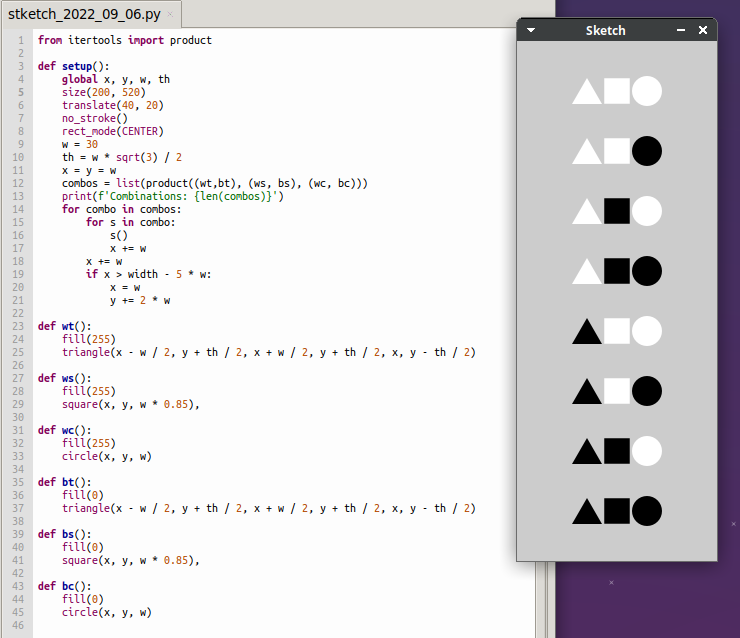
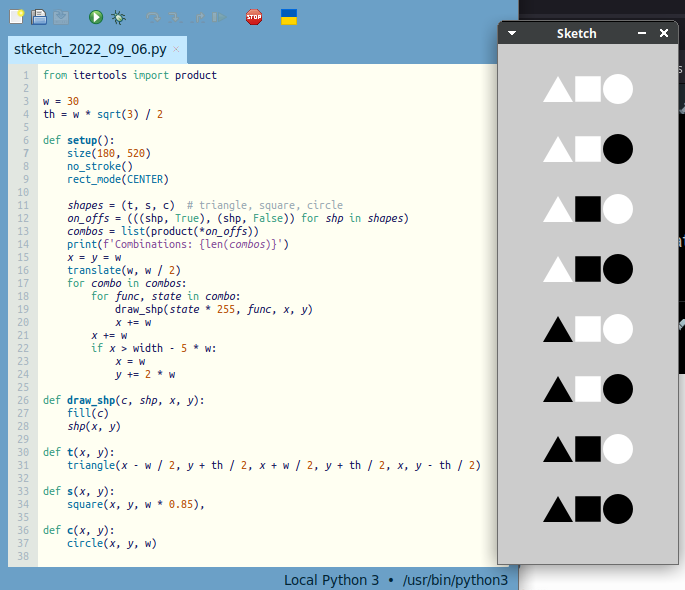
6 update & 7 new

diff --git a/2022/sketch_2022_09_06/stketch_2022_09_06.py b/2022/sketch_2022_09_06/stketch_2022_09_06.py
@@ -1,40 +1,37 @@
 from itertools import product
 
+w = 30
+th = w * sqrt(3) / 2    
+
 def setup():
-    global x, y, w, th
-    size(200, 520)
-    translate(40, 20)
+    size(180, 520)
     no_stroke()
     rect_mode(CENTER)
-    w = 30
-    th = w * sqrt(3) / 2    
-    x = y = w
-    
-    
-    combos = list(product(
-         ((t, True), (t, False)),
-         ((s, True), (s, False)),
-         ((c, True), (c, False))
-        ))
+
+    shapes = (t, s, c)  # triangle, square, circle
+    on_offs = (((shp, True), (shp, False)) for shp in shapes)
+    combos = list(product(*on_offs))
     print(f'Combinations: {len(combos)}')
-    
+    x = y = w
+    translate(w, w / 2)
     for combo in combos:
         for func, state in combo:
-            func(state)
+            draw_shp(state * 255, func, x, y)
             x += w
         x += w
         if x > width - 5 * w:
             x = w
             y += 2 * w
 
-def t(on):
-    fill(255 * on)
+def draw_shp(c, shp, x, y):
+    fill(c)
+    shp(x, y)
+
+def t(x, y):
     triangle(x - w / 2, y + th / 2, x + w / 2, y + th / 2, x, y - th / 2)
     
-def s(on):
-    fill(255 * on)
+def s(x, y):
     square(x, y, w * 0.85),
    
-def c(on):
-    fill(255 * on)
+def c(x, y):
     circle(x, y, w)

diff --git a/2022/stketch_2022_09_07/stketch_2022_09_07.py b/2022/stketch_2022_09_07/stketch_2022_09_07.py
@@ -1,0 +1,25 @@
+from itertools import product
+
+w = 20
+th = w * sqrt(3) / 2    
+
+def setup():
+    size(990, 500)
+    no_stroke()
+    elements = product((-1, 0, 1), repeat=2)  # 9 grid positions
+    on_offs = (((el, True), (el, False)) for el in elements)
+    combos = list(product(*on_offs))
+    print(f'Combinations: {len(combos)}')
+    x = y = w
+    translate(w / 2, w / 4)
+    for combo in combos:
+        for (xo, yo), state in combo:
+            fill(state * 255)
+            circle(x + xo * w / 3,
+                   y + yo * w / 3,
+                   w / 3)
+        x += w * 1.5
+        if x > width - w * 1.5:
+            x = w
+            y +=  w * 1.5
+
